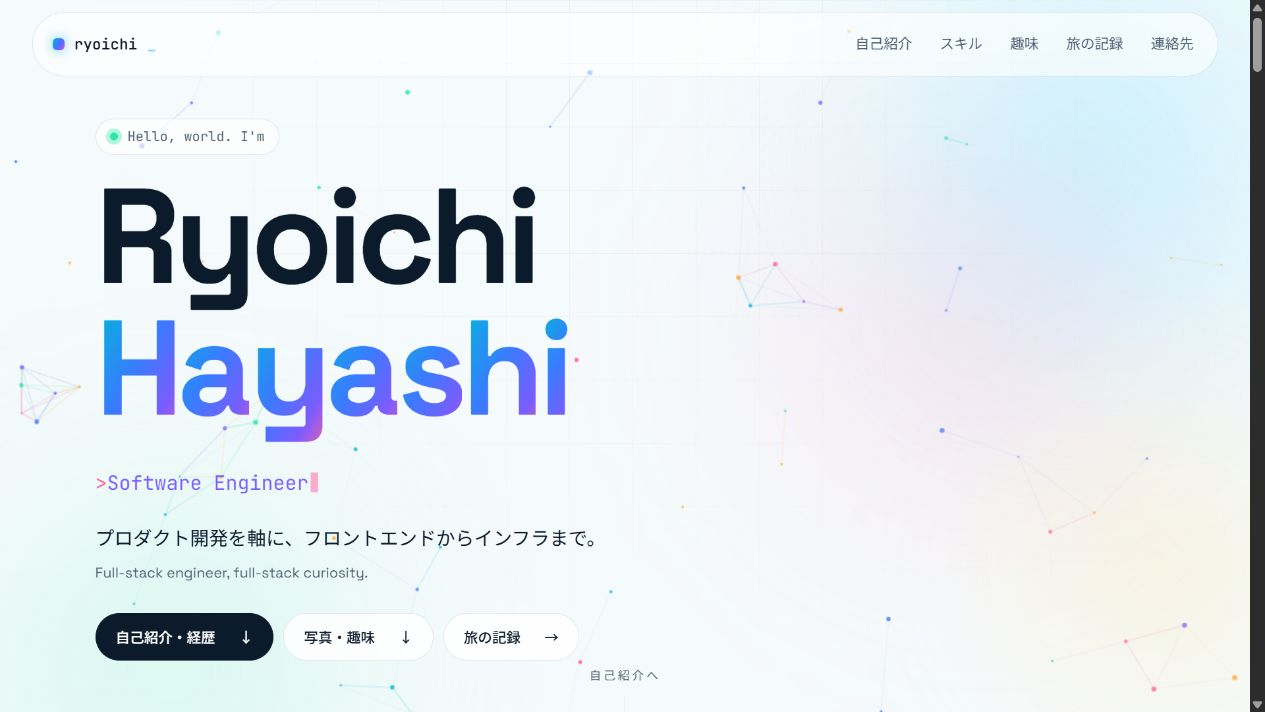
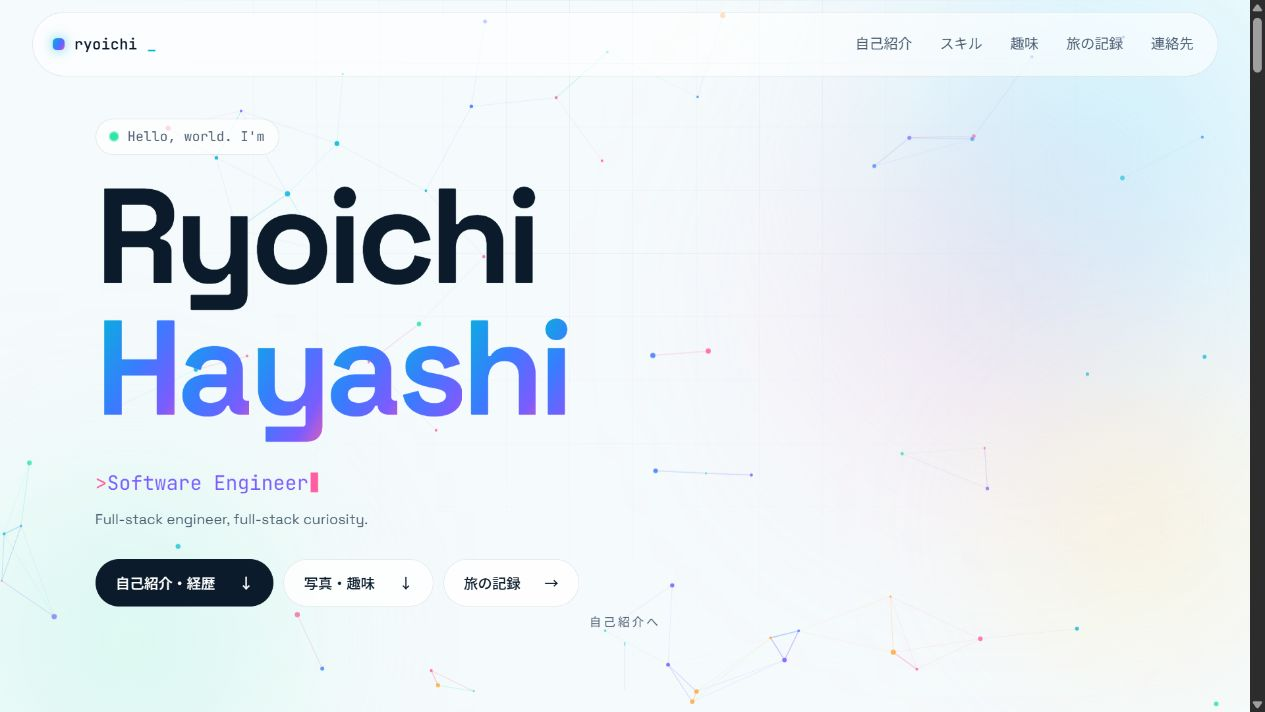
Remove hero introduction copy

diff --git a/src/data/profile.ts b/src/data/profile.ts
@@ -46,7 +46,6 @@ const profileData = load(
     name: z.string(),
     role: z.string(),
     tagline: z.string(),
-    heroIntro: z.string().optional(),
     intro: z.string(),
     location: z.string(),
     socials: z.array(socialSchema).default([]),

diff --git a/docs/first-view-review.md b/docs/first-view-review.md
@@ -5,14 +5,14 @@
 
 ## 今回の変更
 
-- 名前、グラデーション、背景、タイピングを維持し、既存プロフィールを要約した日本語紹介文を追加。
+- 名前、グラデーション、背景、タイピングを維持。Hero の日本語紹介文は追加しない。
 - Hero から「自己紹介・経歴」→ `#about`、「写真・趣味」→ `#hobbies`、「旅の記録」→ `/travel/` に直接移動。
 - 固定ナビを「自己紹介 / スキル / 趣味 / 旅の記録 / 連絡先」に変更。スマホはロゴとリンクを2段で表示。
-- Hero の紹介文と3導線は、タイピング終了を待たずに表示。肩書きは JavaScript 無効でも HTML に残し、読み上げ用の全文と視覚的な演出を分離。
+- Hero の3導線は、タイピング終了を待たずに表示。肩書きは JavaScript 無効でも HTML に残し、読み上げ用の全文と視覚的な演出を分離。
 - ページ内リンクで URL のハッシュとフォーカスを更新。CSS の `scroll-margin-top` を Lenis と標準スクロールの両方に適用。
 - Hero とナビの点滅は `prefers-reduced-motion` で停止。
 
-短い紹介文は `content/profile.yaml` の任意項目 `heroIntro` で編集する。未指定時は既存の `intro` を表示する。経歴・写真・旅行先・走行実績のデータは追加していない。
+経歴・写真・旅行先・走行実績のデータは追加していない。
 
 ## 他テーマとの接点（未接続）
 
